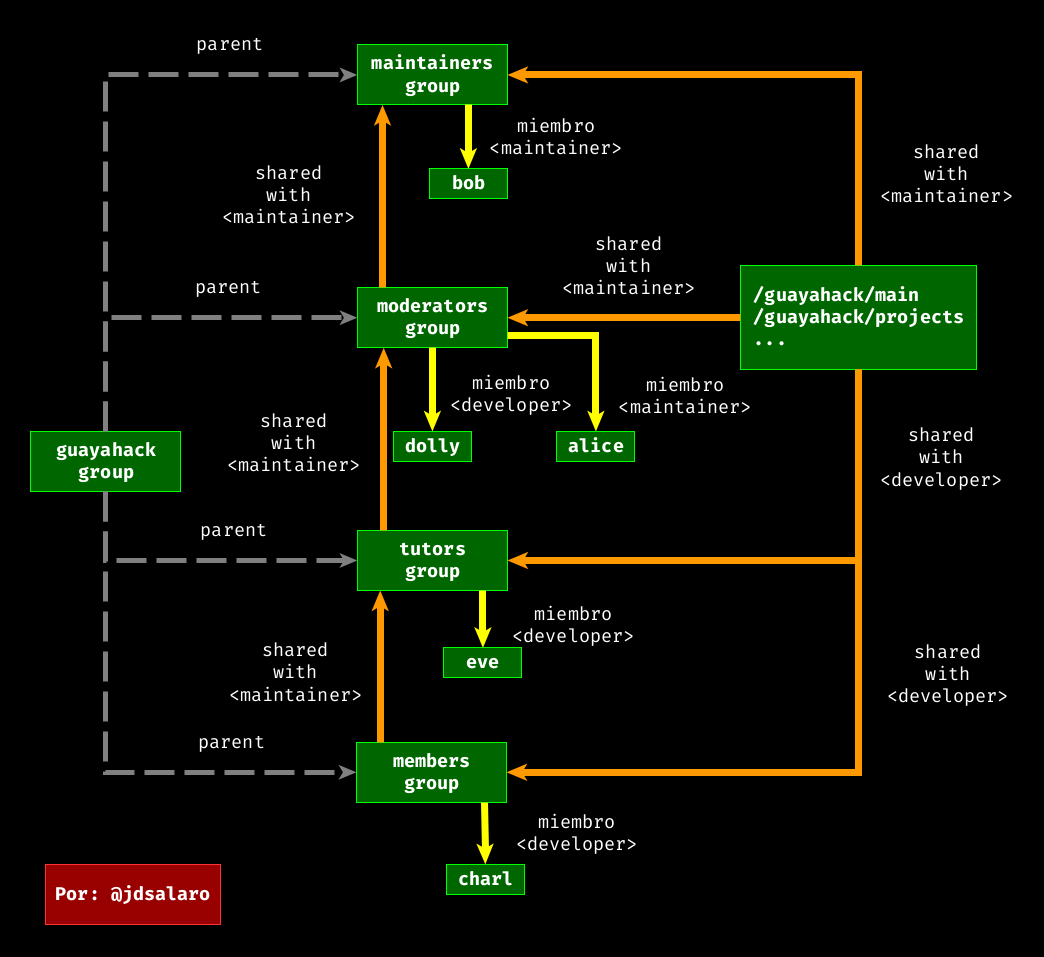
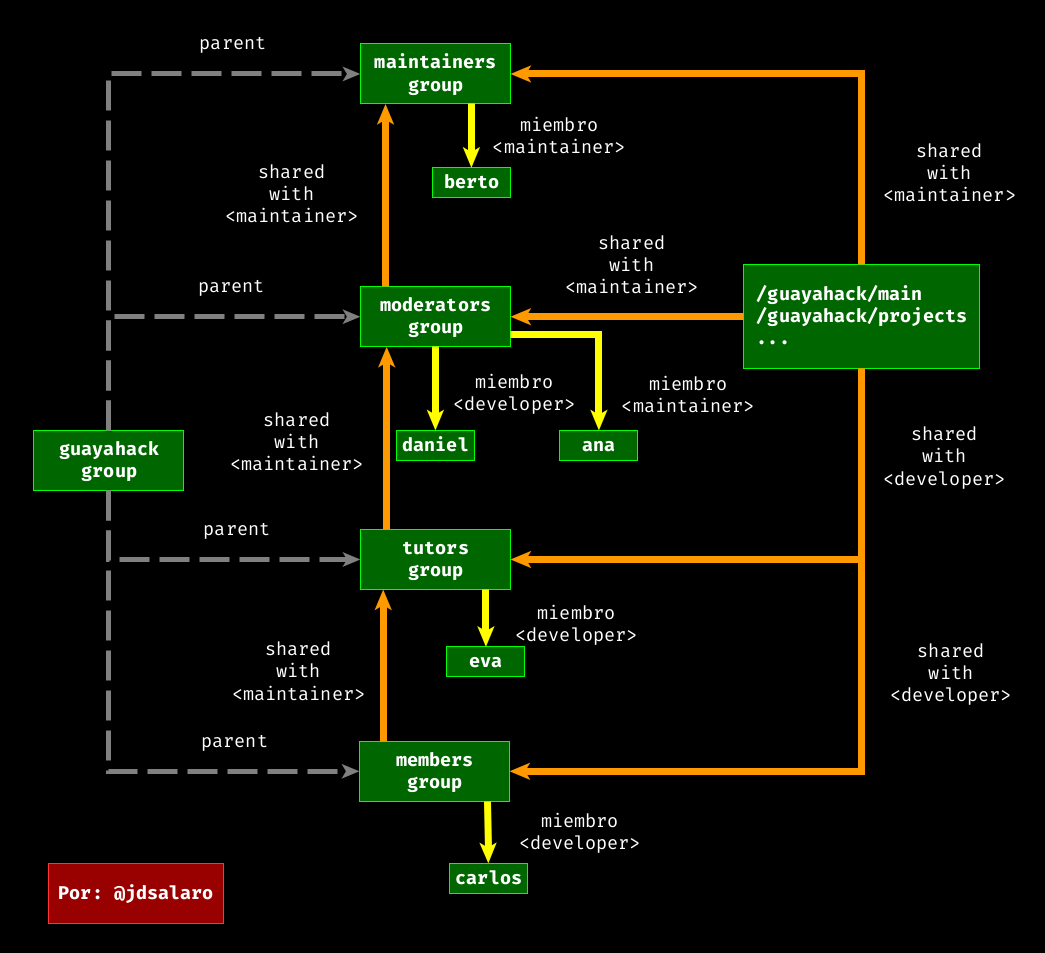
modified:   infraestructura-gitlab.md modified:   infraestructura-gitlab.md-data/gitlab-guayahack-permission-structure.png

diff --git a/site/wiki/infraestructura-gitlab.md b/site/wiki/infraestructura-gitlab.md
@@ -12,9 +12,9 @@
 
 La estructura de permisos de GuayaHack en GitLab no es muy compleja, pero si es lo suficientemente flexible para apoyar adecuadamente los procesos de la comunidad.
 
-Todo miembro debe estar en *todos* los grupos que le corresponden. Un moderador, por ejemplo, debe estar en `/guayahack/members` y en `/guayahack/moderators`. Así, en caso de cambiosen el grupo `/guayahack/moderators`, éste no perderá acceso por completo ya que lo mantiene a través de otros grupos. 
+Todo miembro debe estar en *todos* los grupos que le corresponden. Un moderador, por ejemplo, debe estar en `/guayahack/members` y en `/guayahack/moderators`. Así, en caso de cambios en el grupo `/guayahack/moderators`, éste no perderá acceso por completo ya que lo mantiene a través de otros grupos. 
 
-⚠  En el caso de recursos, tanto grupos como proyectos, que son compartidos usando `share with` un miembro recibirá el nivel de permiso `max ( permiso en el grupo destino, permiso usado para share with) `. Es decir, dolly tendra permisos de `developer` en `/guayahack/main`. 
+⚠  En el caso de recursos, tanto grupos como proyectos, que son compartidos usando `share with` un miembro recibirá el nivel de permiso `max ( permiso en el grupo destino, permiso usado para share with) `. Es decir, daniel tendrá permisos de `developer` en `/guayahack/main`. 
 
 ```{figure} infraestructura-gitlab.md-data/gitlab-guayahack-permission-structure.png
 ---
